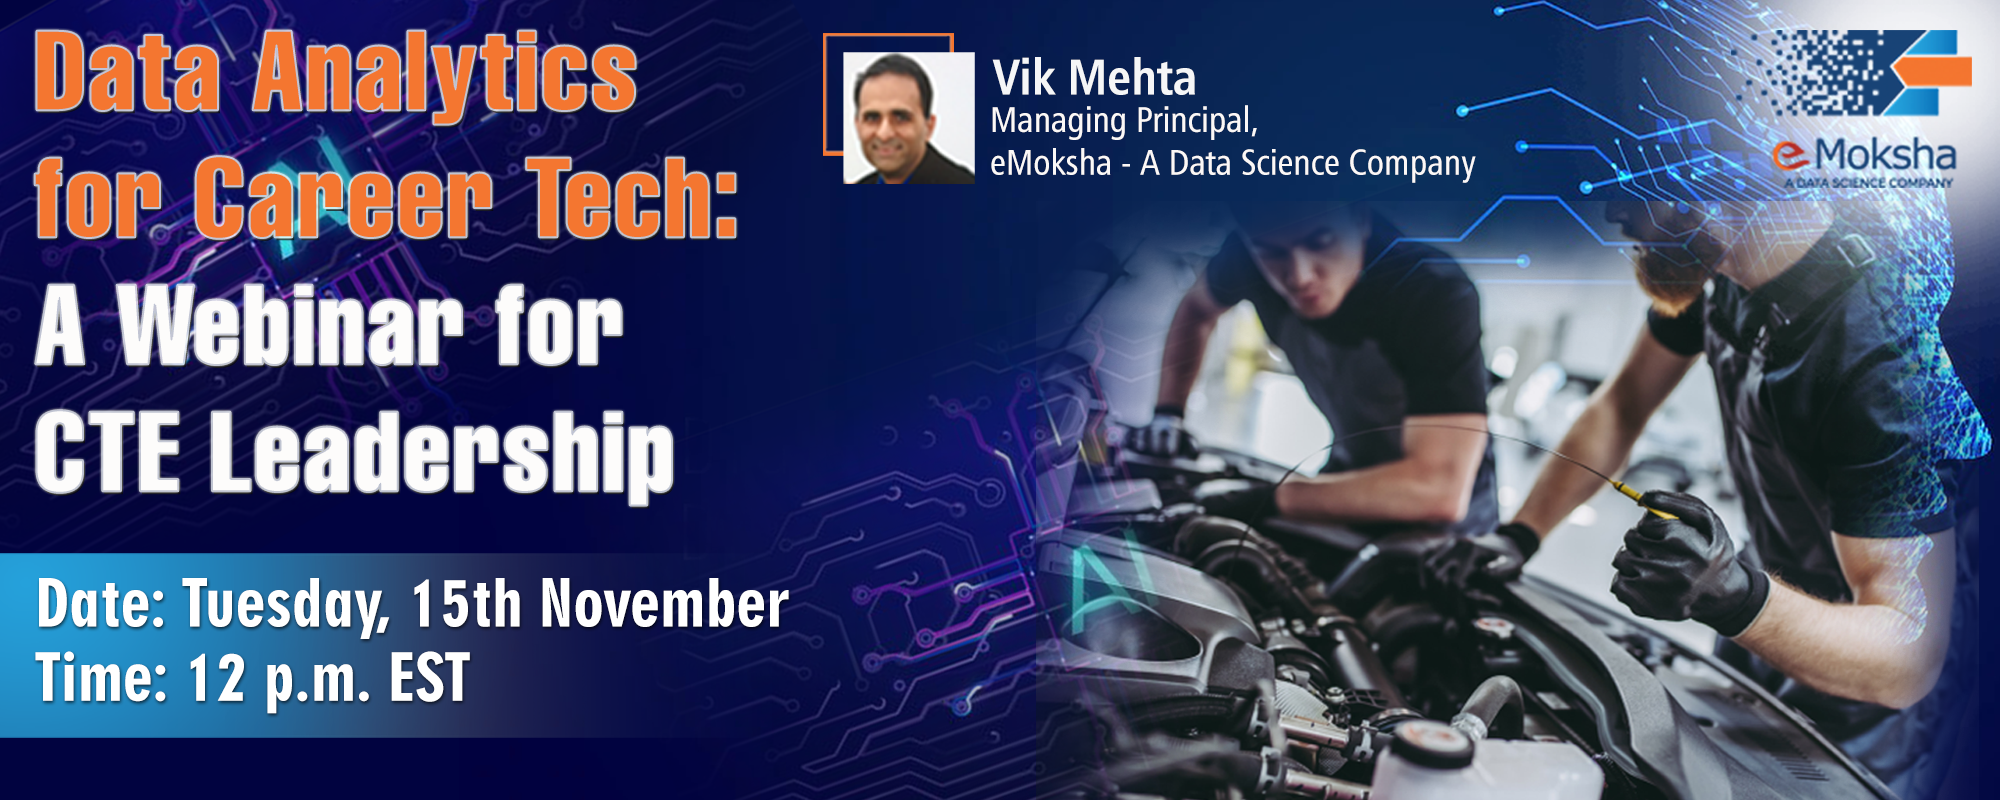
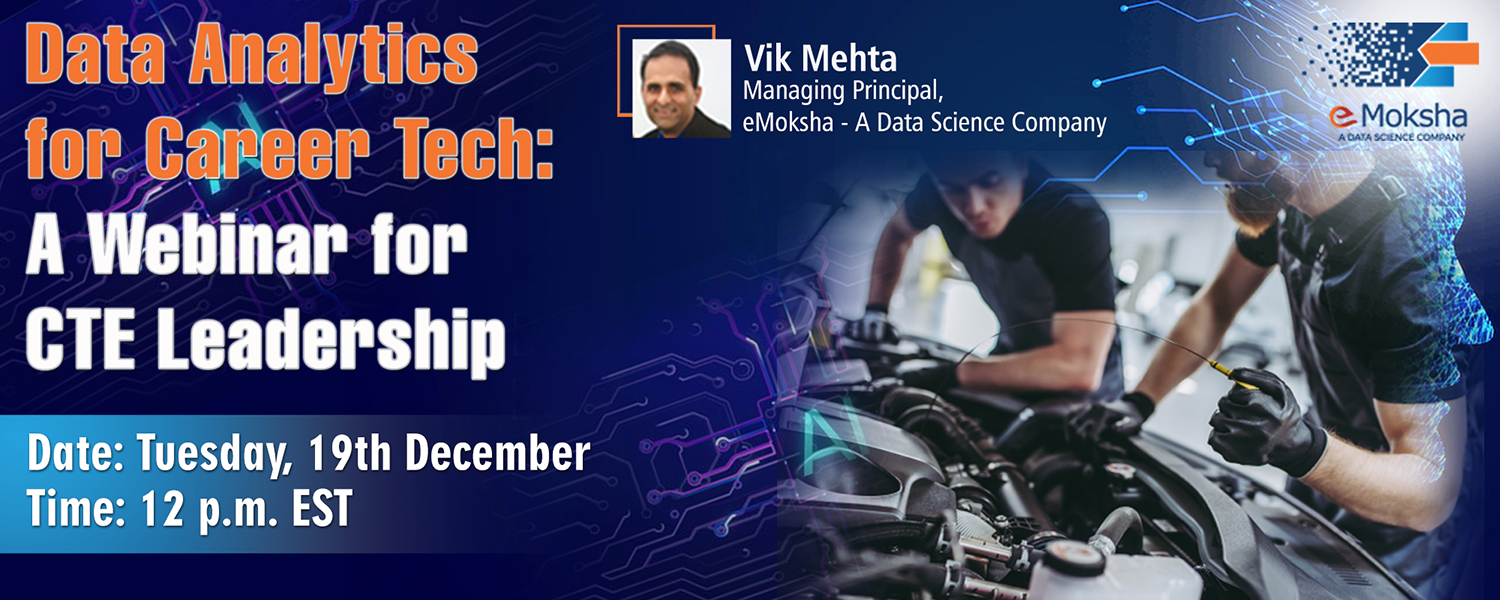
updated

diff --git a/landing_page/template_1/index.html b/landing_page/template_1/index.html
@@ -31,29 +31,29 @@
 
         <div class="body__container">
             <main>
-                <section class="section__highlight mb-5 border-bottom pb-4 pt-5 bg-light">
+                <!-- <section class="section__highlight mb-5 border-bottom pb-4 pt-5 bg-light">
                     <div class="container">
                         <article>
                             <p class="text-center text__tagline">
                                 Join our upcoming webinar to learn how eMoksha’s CTlytics can transform Career and Technical Education (CTE) into a data-driven experience. You will gain unparalleled insights into emerging and declining programs within your career tech center or across various school districts.
                             </p>
-                            <!-- <div class="wrap__botton pt-4 text-center">
+                            <div class="wrap__botton pt-4 text-center">
                                 <button class="btn btn-primary">
                                     Get Started Now!
                                 </button>
-                            </div> -->
+                            </div>
                         </article>
 
                     </div>
-                </section>
+                </section> -->
 
-                <section class="section__one pb-5">
-                    <div class="container">
+                <section class="section__one py-5">
+                    <div class="container pt-5">
                         <div class="row pt-2">
                             <div class="col-12 col-md-6 col-lg-7">
                                 <section>
                                     <article>
-                                        <header class="pb-3 text-center">
+                                        <header class="pb-3">
                                             <h2 class="header__primary">
                                                 Transforming Career and Technical Education (CTE) with AI
                                             </h2>
@@ -61,17 +61,20 @@
 
                                         <div class="article__body pb-4">
                                             <p>
-                                                With CTlytics, you can delve into the post-program paths students embark upon after completing their CTE journey, whether entering the job market, pursuing higher education, joining the military, or more. It allows you to identify trends in post-program paths and employment rates by different programs, giving you a clear picture of how different programs impact students&#39; lives.
+                                                Get ready to transform your Career and Technical Education (CTE) program with data analytics. Join our upcoming webinar on <strong class="fw-bolder text-dark">December 19th, 2023, from 12 p.m. to 1 p.m. (EST)</strong>  and discover how our analytics service offering CTlytics can help you discover important insights about your CTE program. Register now to receive the Zoom link and join us online. 
                                             </p>
                                             <p>
-                                                CTlytics also facilitates meaningful discussions with teachers and students, empowering them with insights into how earning credentials can open doors to opportunities. It quantifies student interest through enrollment and retention rates for various programs, enabling you to tailor your CTE offerings to meet their needs and aspirations.
+                                                CTlytics allows you to explore the various aspects of your CTE program such as student pathways, employment rates, certification and career success relationships, student retention rates, readymade Perkins metrics, etc. CTlytics enables you to identify these trends and gain a clear understanding of how multiple areas are affecting CTE success and outcomes. 
                                             </p>
                                             <p>
-                                                Join us for this exclusive webinar and embark on a journey toward redefining Career and Technical Education. The webinar will be held online on 15th November 2023 from 12 p.m.- 1 p.m., and the Zoom link will be provided upon registration. Register now to secure your spot and be part of the future of education.
+                                                Do not miss this opportunity to unlock the potential of your CTE data.
                                             </p>
                                             <p>
-                                                Do not miss this opportunity to unlock the potential of multi-year data with CTlytics and revolutionize CTE! <a href="#" class="primary__link" data-bs-toggle="modal" data-bs-target="#staticBackdrop">Register</a>. Unlock the potential. Shape the future.
+                                                Unlock the potential. Shape the future.
                                             </p>
+                                            <!-- <p>
+                                                <a href="#" class="primary__link" data-bs-toggle="modal" data-bs-target="#staticBackdrop">Register</a>
+                                            </p> -->
                                         </div>
                                     </article>
                                 </section>
